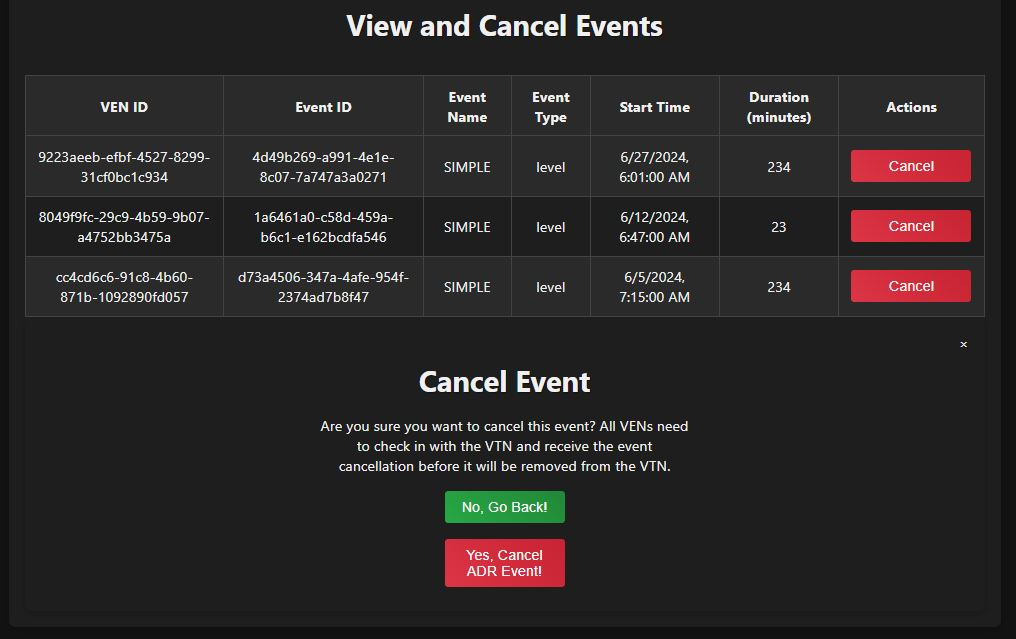
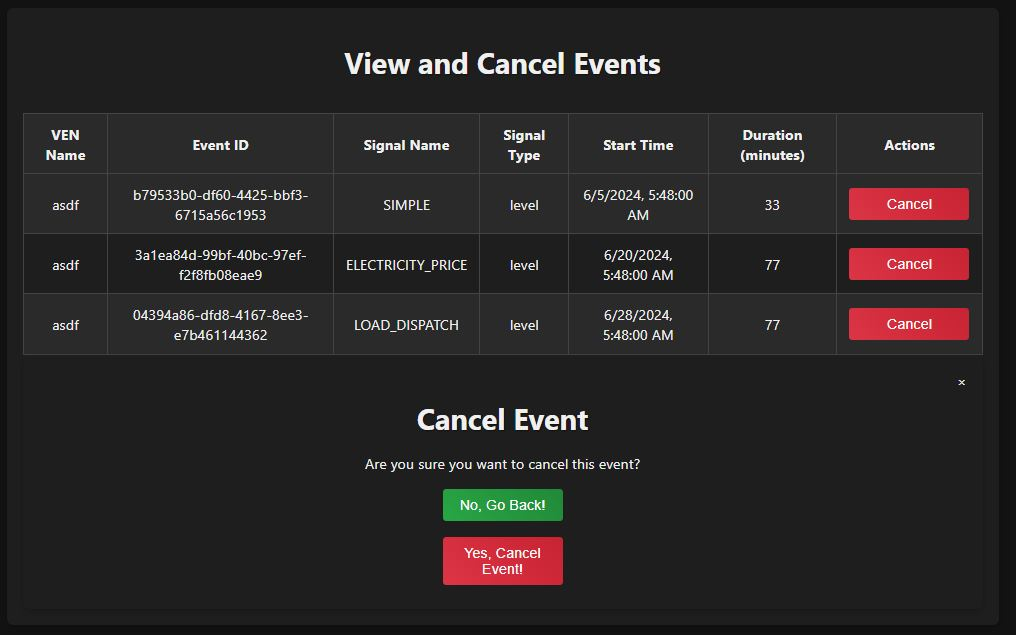
updated front and back to support SIMPLE ELECTRICITY_PRICE and LOAD_DISPATCH which has tested good. work on sending events to multiple vens feature next

diff --git a/frontend/src/components/ScheduleEvent.tsx b/frontend/src/components/ScheduleEvent.tsx
@@ -7,6 +7,9 @@ interface EventFormData {
   signalType: string;
   startTime: string;
   duration: string;
+  level?: number;
+  price?: number;
+  setpoint?: number;
 }
 
 const ScheduleEvent: React.FC = () => {
@@ -89,24 +92,85 @@ const ScheduleEvent: React.FC = () => {
             <option value="LOAD_DISPATCH">Load Dispatch</option>
           </select>
         </div>
-        <div className="form-group">
-          <label htmlFor="signalType">Event Type</label>
-          <select
-            id="signalType"
-            name="signalType"
-            className="form-control"
-            value={formData.signalType}
-            onChange={handleChange}
-          >
-            <option value="level">Level</option>
-            <option value="price">Price</option>
-            <option value="priceRelative">Relative Price</option>
-            <option value="priceMultiplier">Price Multiplier</option>
-            <option value="setpoint">Setpoint</option>
-            <option value="delta">Delta</option>
-            <option value="multiplier">Multiplier</option>
-          </select>
-        </div>
+        {formData.signalName === 'SIMPLE' && (
+          <div className="form-group">
+            <label htmlFor="signalType">Event Type</label>
+            <select
+              id="signalType"
+              name="signalType"
+              className="form-control"
+              value={formData.signalType}
+              onChange={handleChange}
+            >
+              <option value="level">Level</option>
+            </select>
+            <label htmlFor="level">Level</label>
+            <select
+              id="level"
+              name="level"
+              className="form-control"
+              value={formData.level || ''}
+              onChange={(e) => setFormData({ ...formData, level: Number(e.target.value) })}
+              required
+            >
+              <option value="">Select Level</option>
+              <option value="0">0</option>
+              <option value="1">1</option>
+              <option value="2">2</option>
+              <option value="3">3</option>
+            </select>
+          </div>
+        )}
+        {formData.signalName === 'ELECTRICITY_PRICE' && (
+          <div className="form-group">
+            <label htmlFor="signalType">Event Type</label>
+            <select
+              id="signalType"
+              name="signalType"
+              className="form-control"
+              value={formData.signalType}
+              onChange={handleChange}
+            >
+              <option value="price">Price</option>
+            </select>
+            <label htmlFor="price">Price ($/kWh)</label>
+            <input
+              type="number"
+              id="price"
+              name="price"
+              className="form-control"
+              value={formData.price || ''}
+              onChange={(e) => setFormData({ ...formData, price: Number(e.target.value) })}
+              step="0.01"
+              required
+            />
+          </div>
+        )}
+        {formData.signalName === 'LOAD_DISPATCH' && (
+          <div className="form-group">
+            <label htmlFor="signalType">Event Type</label>
+            <select
+              id="signalType"
+              name="signalType"
+              className="form-control"
+              value={formData.signalType}
+              onChange={handleChange}
+            >
+              <option value="level">Level</option>
+            </select>
+            <label htmlFor="setpoint">kW Setpoint</label>
+            <input
+              type="number"
+              id="setpoint"
+              name="setpoint"
+              className="form-control"
+              value={formData.setpoint || ''}
+              onChange={(e) => setFormData({ ...formData, setpoint: Number(e.target.value) })}
+              step="0.1"
+              required
+            />
+          </div>
+        )}
         <div className="form-group">
           <label htmlFor="startTime">Start Time (UTC)</label>
           <input

diff --git a/frontend/src/components/ViewEvents.tsx b/frontend/src/components/ViewEvents.tsx
@@ -108,6 +108,7 @@ const ViewEvents: React.FC = () => {
             <span className="close" onClick={() => setShowModal(false)}>&times;</span>
             <h2>Cancel Event</h2>
             <p>Are you sure you want to cancel this event?</p>
+            <p>Note that all VENs need to check in with the server and receive the updated event notification before the event will be removed from the server.</p>
             <button className="btn btn-secondary" onClick={() => setShowModal(false)}>No, Go Back!</button>
             <button className="btn btn-danger" onClick={handleCancel}>Yes, Cancel Event!</button>
           </div>

diff --git a/server/adr_utils.py b/server/adr_utils.py
@@ -78,6 +78,7 @@ async def on_created_event(ven_id, event_id, opt_type):
     """
     logger.info(f"VEN {ven_id} responded to Event {event_id} with: {opt_type}")
 
+
 async def handle_event_post(request):
     payload = await request.json()
     logger.info('Received Event Payload:', payload)
@@ -95,17 +96,28 @@ async def handle_event_post(request):
         logger.error("Error: Missing required event data")
         raise web.HTTPBadRequest(text="Missing required event data")
 
+    signal_payload = None
+    if signal_name == "SIMPLE":
+        signal_payload = payload.get("level", 1)
+    elif signal_name == "ELECTRICITY_PRICE":
+        signal_payload = payload.get("price")
+        if signal_payload is None:
+            raise web.HTTPBadRequest(text="Missing price for ELECTRICITY_PRICE event")
+    elif signal_name == "LOAD_DISPATCH":
+        signal_payload = payload.get("setpoint")
+        if signal_payload is None:
+            raise web.HTTPBadRequest(text="Missing setpoint for LOAD_DISPATCH event")
+    else:
+        raise web.HTTPBadRequest(text=f"Unknown signal name {signal_name}")
+
     intervals = [
         {
             "dtstart": datetime.strptime(start_time, "%Y-%m-%dT%H:%M").replace(tzinfo=timezone.utc),
             "duration": timedelta(minutes=int(duration)),
-            "signal_payload": 1,
+            "signal_payload": signal_payload,
         }
     ]
 
-    if signal_name not in ["SIMPLE", "ELECTRICITY_PRICE", "LOAD_DISPATCH"]:
-        logger.error(f"Error: Unknown name {signal_name}")
-        raise web.HTTPBadRequest(text=f"Unknown name {signal_name}")
     if signal_type not in [
         "level",
         "price",
@@ -145,6 +157,7 @@ async def handle_event_post(request):
     )
     logger.info(f"Sent event to {ven_name}: {signal_name} ({signal_type})")
     return web.json_response({"status": "success", "message": f"Event sent to {ven_name}", "event_id": event_id})
+
 
 async def handle_ven_post(request):
     payload = await request.json()
@@ -201,10 +214,29 @@ async def handle_cancel_event(request):
     if not ven_id or not event_id:
         raise web.HTTPBadRequest(text="Missing ven_id or event_id")
 
+    # Retrieve ven_name
+    try:
+        ven_info = VEN_REGISTRY.get_ven_info_from_id(ven_id)
+        ven_name = ven_info.ven_name
+    except UnknownVenError:
+        raise web.HTTPNotFound(text=f"VEN with id {ven_id} not found")
+
+    # Retrieve event_name
+    event_name = None
+    existing_events = request.app["server"].events.get(ven_id, [])
+    for event in existing_events:
+        if event.event_descriptor.event_id == event_id:
+            event_name = event.event_signals[0].signal_name
+            break
+
+    if not event_name:
+        raise web.HTTPNotFound(text=f"Event with id {event_id} not found for VEN {ven_id}")
+
     # Cancel the event using OpenADRServer's method
     request.app["server"].cancel_event(ven_id, event_id)
     logger.info(f"Cancelled event {event_id} for VEN {ven_id}")
-    return web.json_response({"status": "success", "message": f"Event {event_id} cancelled for VEN {ven_id}"})
+    return web.json_response({"status": "success", "message": f"Event '{event_name}' cancelled for VEN '{ven_name}'"})
+
 
 async def handle_remove_ven(request):
     payload = await request.json()

diff --git a/README.md b/README.md
@@ -15,6 +15,8 @@ Key Features
 * **Easy to Use**: Provides a straightforward setup process and comprehensive documentation to get you started quickly.
 
 ## Web App GUI
+At the moment the web app supports OpenADR 2.0b `SIMPLE`, `ELECTRICITY_PRICE`, and `LOAD_DISPATCH` from web app GUI with drop down menu items. 
+Per OpenADR spec `SIMPLE` signal can either be a `0,1,2 or 3`, `ELECTRICITY_PRICE` is a selectable kWh/Hr, and `LOAD_DISPATCH` at the moment is a selectable kW power setpoint for the building to maintain. All signals have a `duration` in minutes `start time` menu selection in UTC time zone to configure the ADR event. Also as demonstrated below are pop up alerts the web app supports for misconfigurations of VEN or ADR events.
 
 <details>
   <summary>Web App Interface Screenshot</summary>
@@ -30,9 +32,9 @@ These are some basic goals to make this into an interactive Pen test lab for dem
  - [x] create basic React based interface for the GUI
  - [x] test VTN and React interface with a `localhost` OpenADR client
  - [x] make a communications diagram for project
- - [ ] make a login page for the VTN server
  - [ ] add to GUI features for VEN client off/online status and last meter reading value
- - [ ] revise GUI to show VEN name instead of VEN ID
+ - [ ] add to GUI feature create a single event for multiple VENs
+ - [ ] make a login page for the VTN server
  - [ ] add Docker container support
  - [ ] deploy on the internet and test remote OpenAdr client
  - [ ] deploy on open sourced bug bounty program for research purposes on making ADR servers most secure as possible
